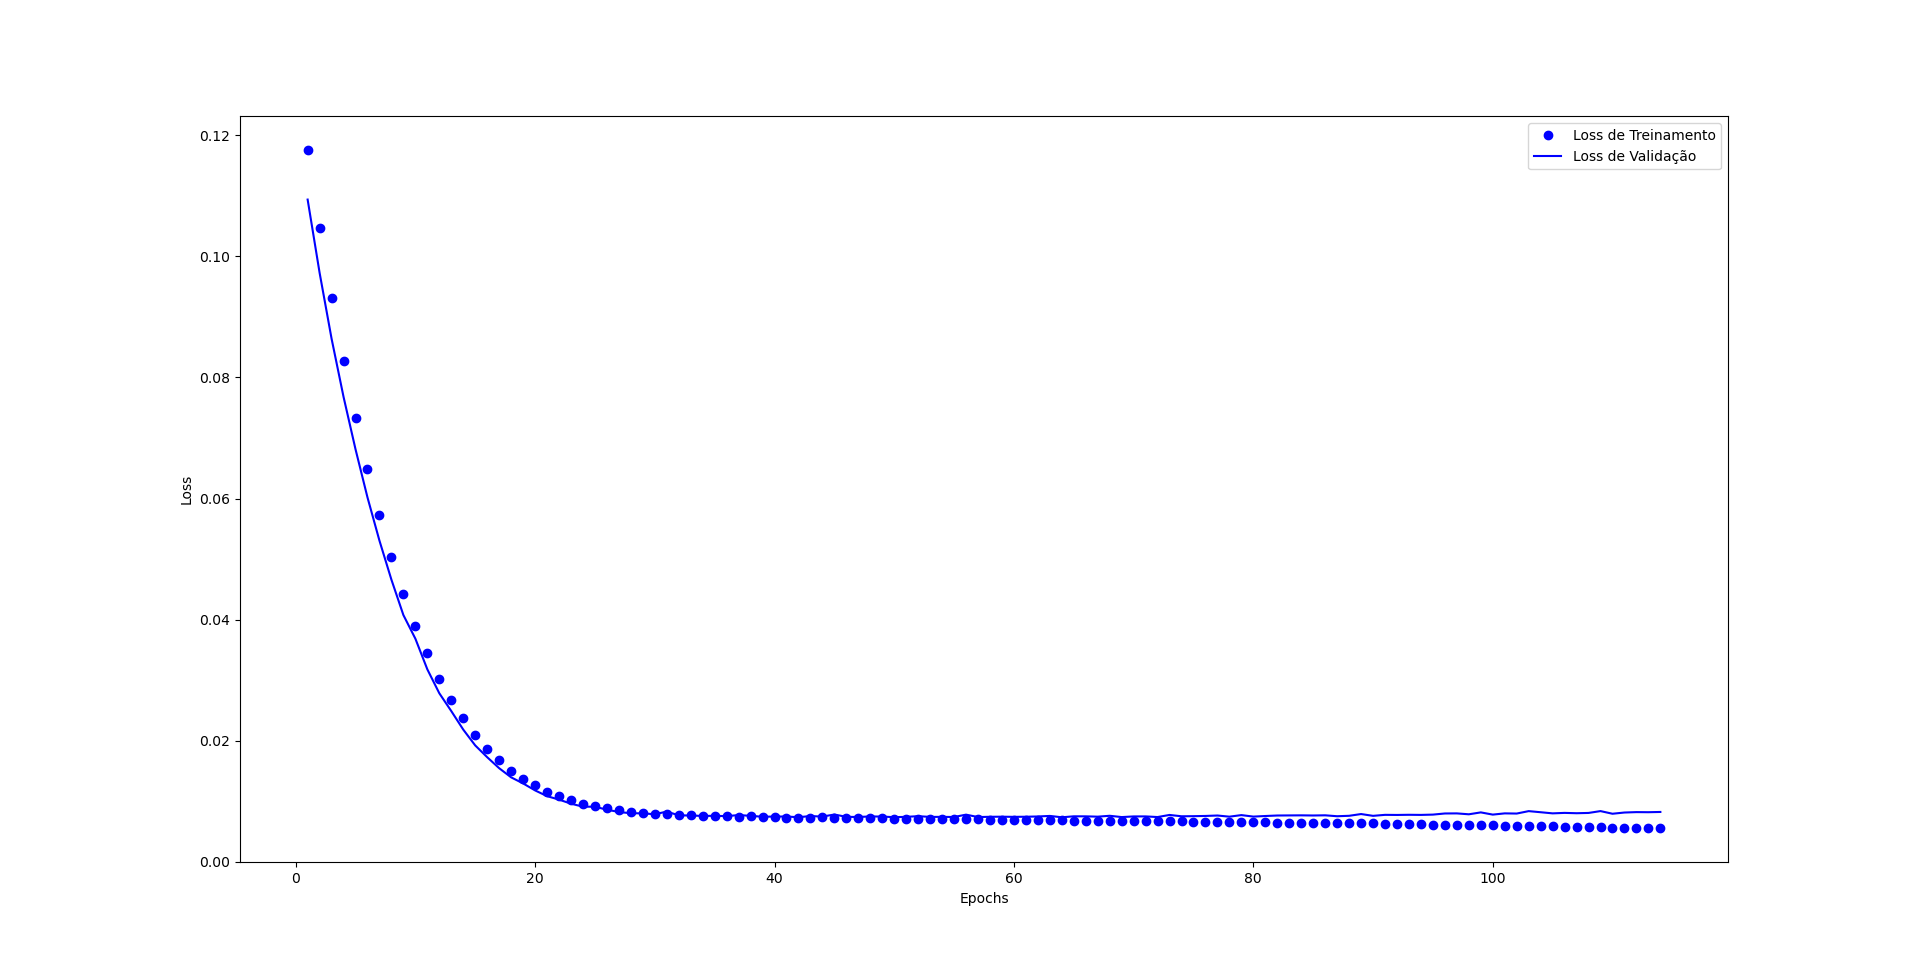
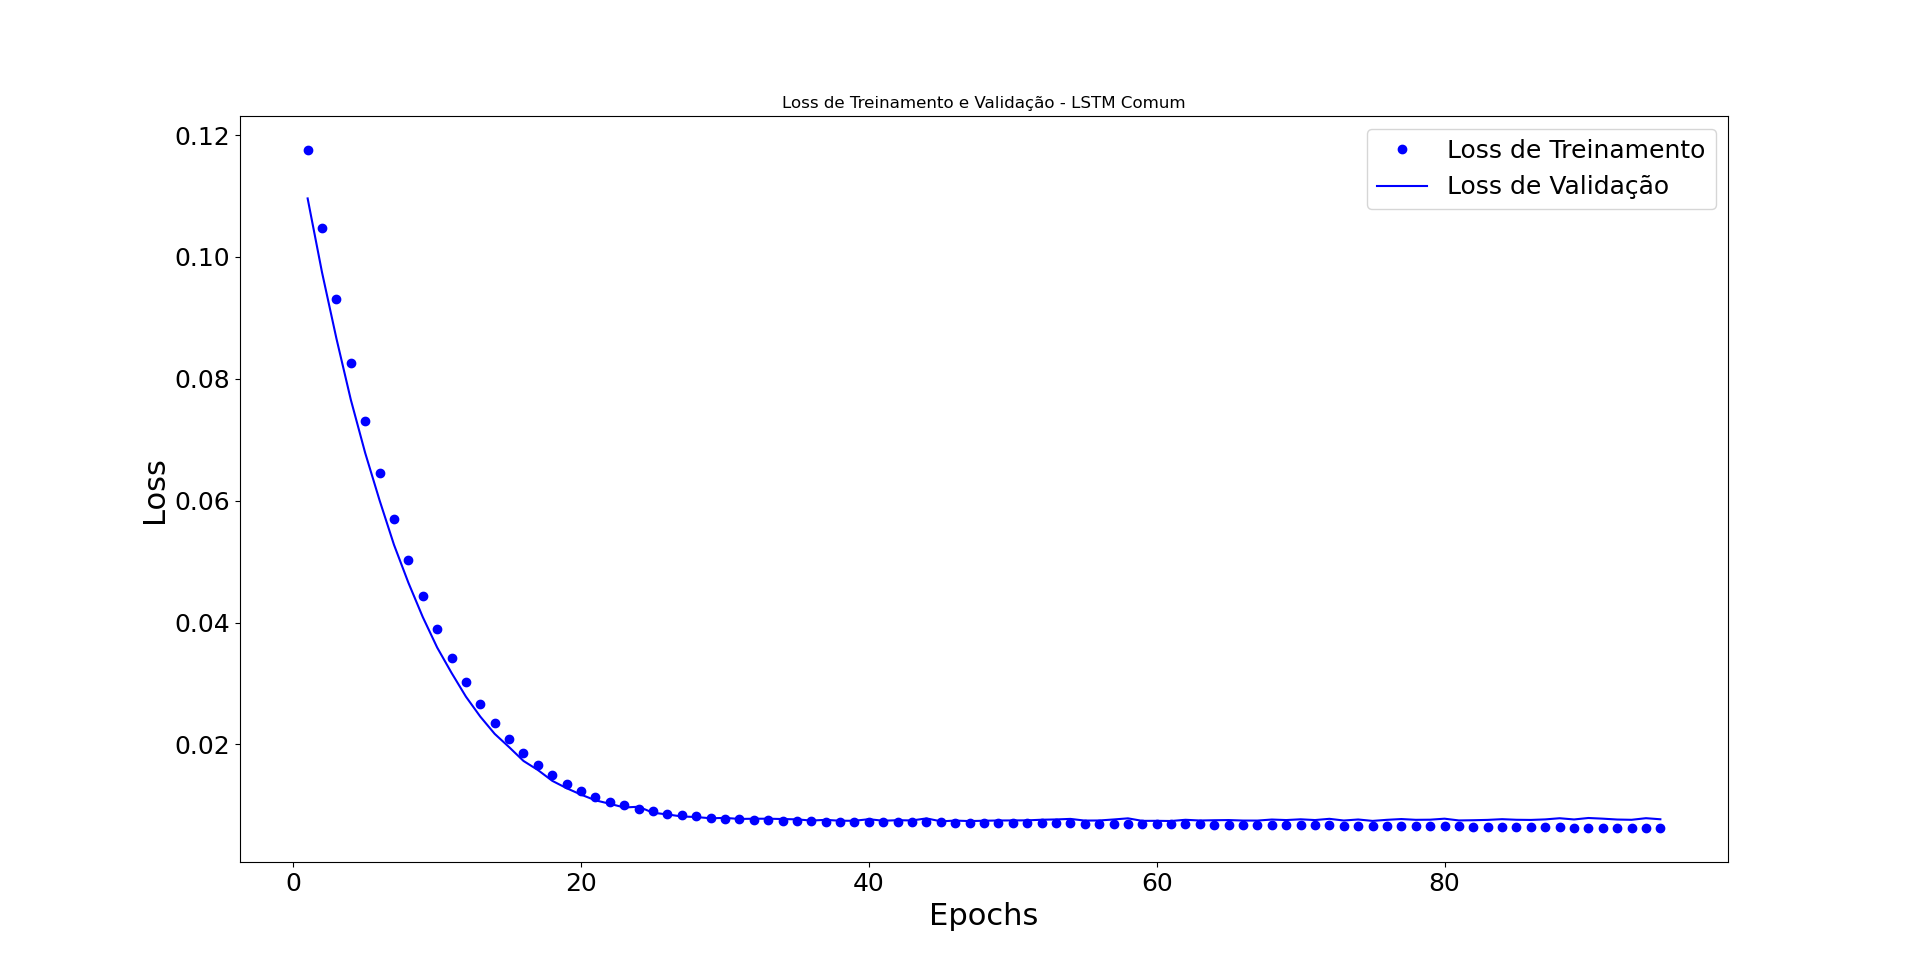
Ajusta a plotagem do training vs validation loss para torna-lo mais legivel

diff --git a/desenvolvimento_modelos/neural_models/lstm.py b/desenvolvimento_modelos/neural_models/lstm.py
@@ -174,9 +174,10 @@ class NeuralTrainingModel:
         plt.plot(epochs, self.loss_values, "bo", label="Loss de Treinamento")
         plt.plot(epochs, self.val_loss_values, "b", label="Loss de Validação")
         plt.title("Loss de Treinamento e Validação - " + arquitetura)
-        plt.xlabel("Epochs", fontsize=18)
-        plt.ylabel("Loss", fontsize=18)
-        plt.legend(fontsize=16)
+        plt.xlabel("Epochs", fontsize=22)
+        plt.ylabel("Loss", fontsize=22)
+        plt.tick_params(axis="both", labelsize=18)
+        plt.legend(fontsize=18)
         plt.show()
 
     # Scatter plot de Previsões x Target
@@ -521,5 +522,3 @@ treinamento_object_encoder_decoder_label.plot_training_validation_loss(arquitetu
 treinamento_object_cnn_lstm_label.plot_training_validation_loss(arquitetura="Encoder-Decoder CNN LSTM")
 
 print("FIM")
-
-
